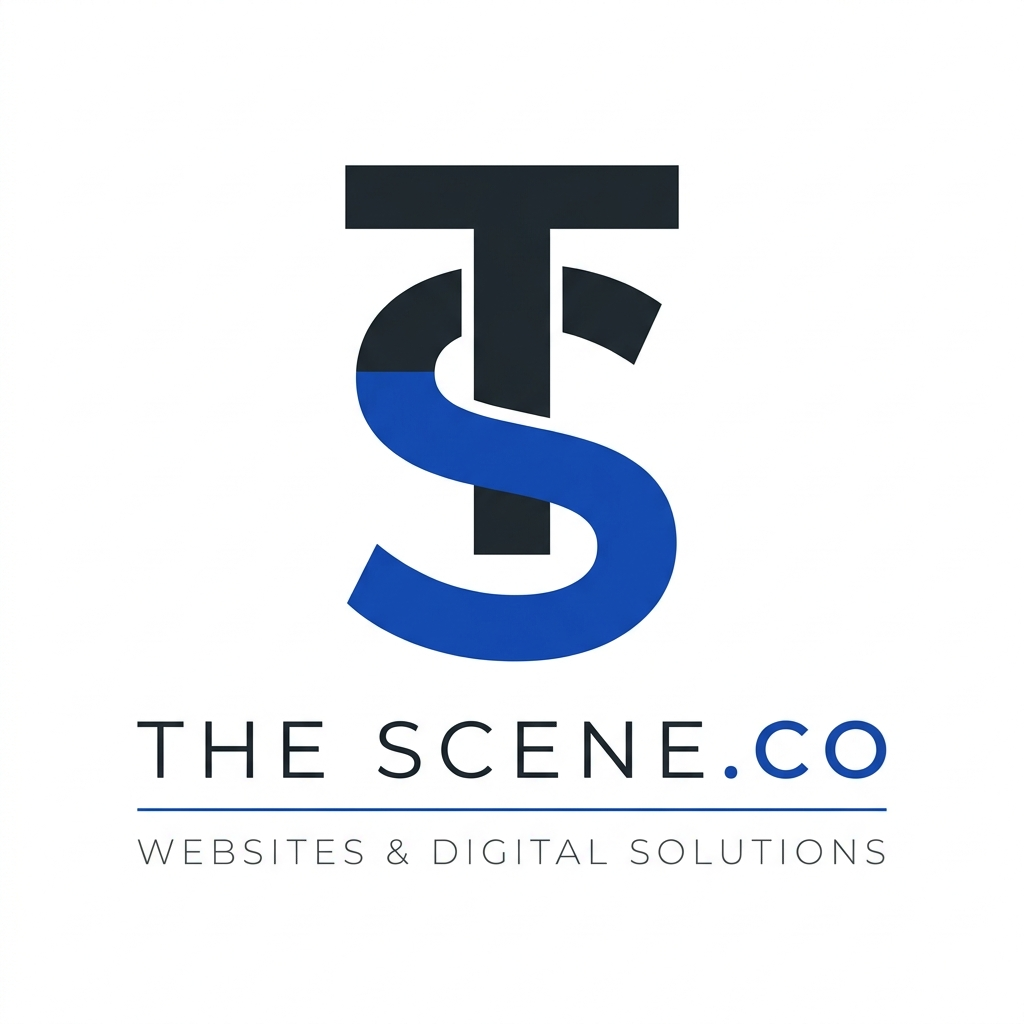
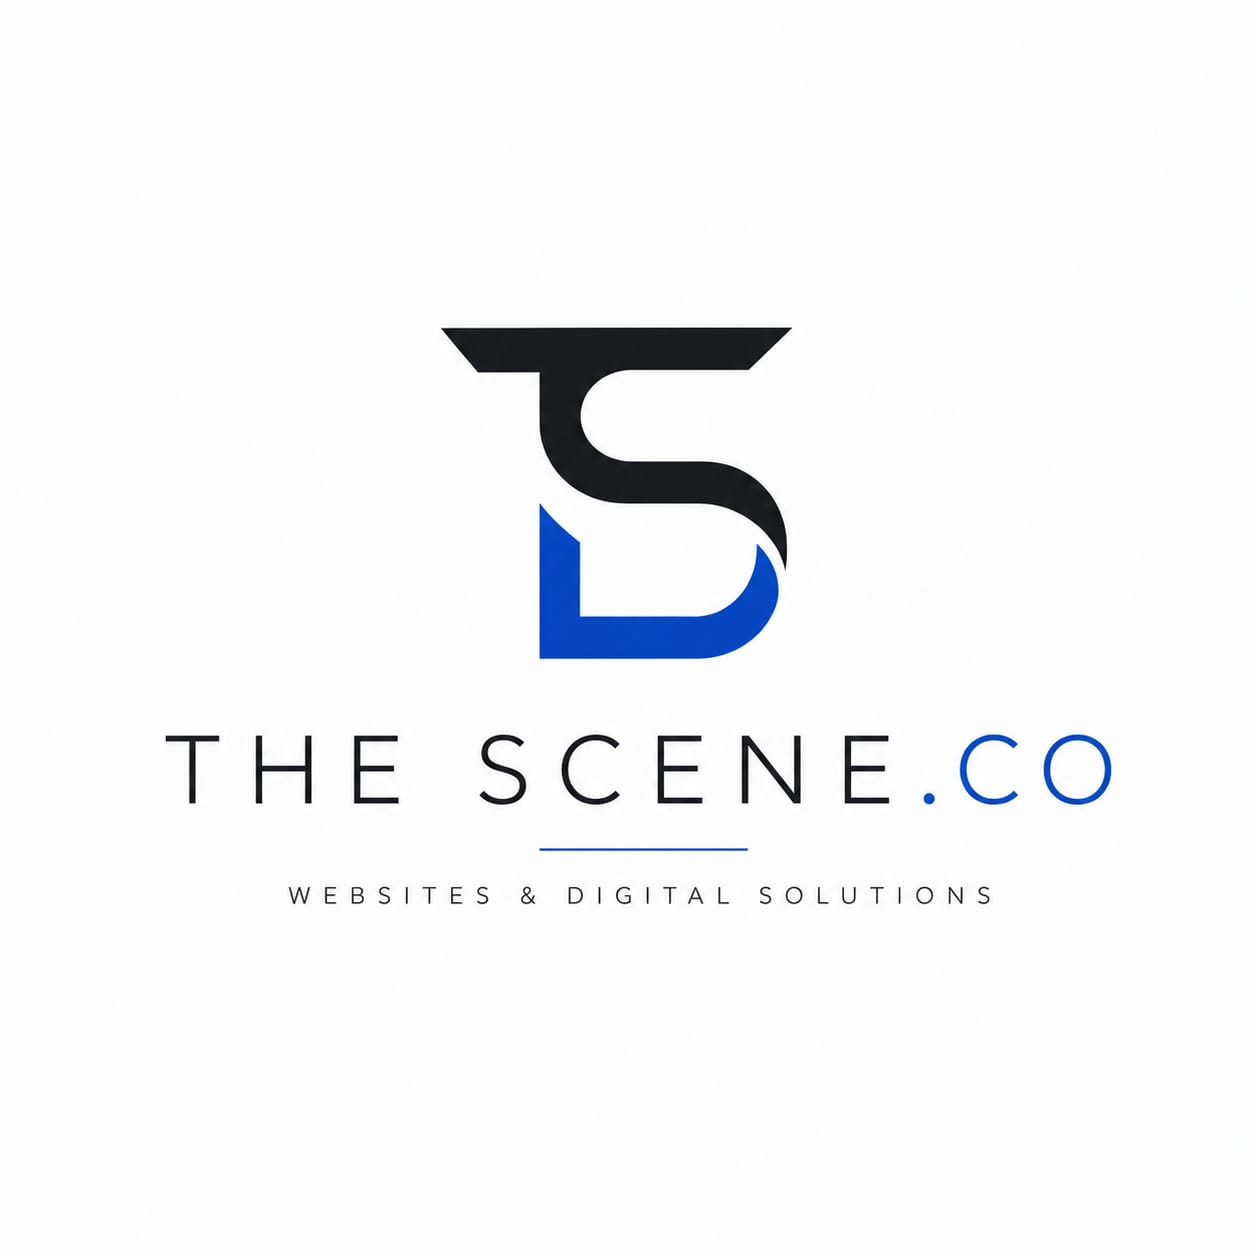
feat: implement JSON-LD structured data support and add base site layout, components, and branding assets

diff --git a/src/components/layout/navbar.tsx b/src/components/layout/navbar.tsx
@@ -28,15 +28,15 @@ export function Navbar() {
   const [isSheetOpen, setSheetOpen] = useState(false);
 
   return (
-    <header className="sticky top-0 z-50 w-full h-[56px] border-b border-hairline bg-canvas/90 backdrop-blur-md flex items-center">
+    <header className="sticky top-0 z-50 w-full h-[80px] border-b border-hairline bg-canvas/90 backdrop-blur-md flex items-center">
       <div className="container mx-auto flex items-center justify-between px-4">
         {/* Left: logo + brand */}
         <Link href="/" className="flex items-center gap-2 shrink-0">
           <Image
-            src="/logo.png"          // file in /public
+            src="/brand-logo.png"          // file in /public
             alt="The Scene Co. logo"
-            width={28}
-            height={28}
+            width={64}
+            height={64}
             className="rounded-md"
             priority
           />
@@ -85,10 +85,10 @@ export function Navbar() {
                 <SheetHeader>
                   <SheetTitle className="flex items-center gap-2">
                     <Image
-                      src="/logo.png"
+                      src="/brand-logo.png"
                       alt="The Scene Co. logo"
-                      width={28}
-                      height={28}
+                      width={64}
+                      height={64}
                       className="rounded-md"
                     />
                     <span className="text-ink font-bold">The Scene Co.</span>

diff --git a/src/app/layout.tsx b/src/app/layout.tsx
@@ -45,9 +45,9 @@ export const metadata: Metadata = {
 
   // ── Icons ─────────────────────────────────────────────────────────────
   icons: {
-    icon: [{ url: '/logo.png', type: 'image/png' }],
-    apple: [{ url: '/logo.png', type: 'image/png' }],
-    shortcut: '/logo.png',
+    icon: [{ url: '/brand-logo.png', type: 'image/png' }],
+    apple: [{ url: '/brand-logo.png', type: 'image/png' }],
+    shortcut: '/brand-logo.png',
   },
 
   // ── Open Graph ────────────────────────────────────────────────────────
@@ -61,7 +61,7 @@ export const metadata: Metadata = {
       'Premium custom websites, e-commerce stores, and POS systems — full-stack, with built-in CMS and 1 year free hosting. Zero templates.',
     images: [
       {
-        url: '/logo.png',
+        url: '/brand-logo.png',
         width: 1024,
         height: 1024,
         alt: 'The Scene Co. — Websites & Digital Solutions',
@@ -77,7 +77,7 @@ export const metadata: Metadata = {
     title: 'The Scene Co. | Custom Websites, E-Commerce & POS Systems in India',
     description:
       'Premium custom websites, e-commerce stores, and POS systems — full-stack, with built-in CMS and 1 year free hosting. Zero templates.',
-    images: ['/logo.png'],
+    images: ['/brand-logo.png'],
   },
 
   // ── Canonical ─────────────────────────────────────────────────────────

diff --git a/src/app/about/page.tsx b/src/app/about/page.tsx
@@ -65,7 +65,7 @@ export default function AboutPage() {
           <AnimateOnScroll animationClass="animate-slide-in-up" hiddenClass="opacity-0">
             <div className="bg-surface-soft rounded-lg overflow-hidden aspect-square flex items-center justify-center p-16">
               <Image
-                src="/logo.png"
+                src="/brand-logo.png"
                 alt="The Scene Co. Logo — Web Development Agency Bangalore"
                 width={240}
                 height={240}

diff --git a/src/components/json-ld.tsx b/src/components/json-ld.tsx
@@ -16,7 +16,7 @@ export function JsonLd({ data }: { data: Record<string, unknown> | Record<string
 
 const SITE_URL = "https://www.thescene.co.in";
 const SITE_NAME = "The Scene Co.";
-const LOGO_URL = `${SITE_URL}/logo.png`;
+const LOGO_URL = `${SITE_URL}/brand-logo.png`;
 
 /** Organisation + WebSite + LocalBusiness — used on the homepage */
 export const organizationSchema = {

diff --git a/src/components/layout/footer.tsx b/src/components/layout/footer.tsx
@@ -48,7 +48,7 @@ export function Footer({ settings }: { settings?: Record<string, string> }) {
           <div className="md:col-span-2 flex flex-col items-start">
             <Link href="/" className="mb-4 flex items-center gap-3 min-h-0">
               <Image
-                src="/logo.png"
+                src="/brand-logo.png"
                 alt="The Scene Co. logo"
                 width={38}
                 height={38}